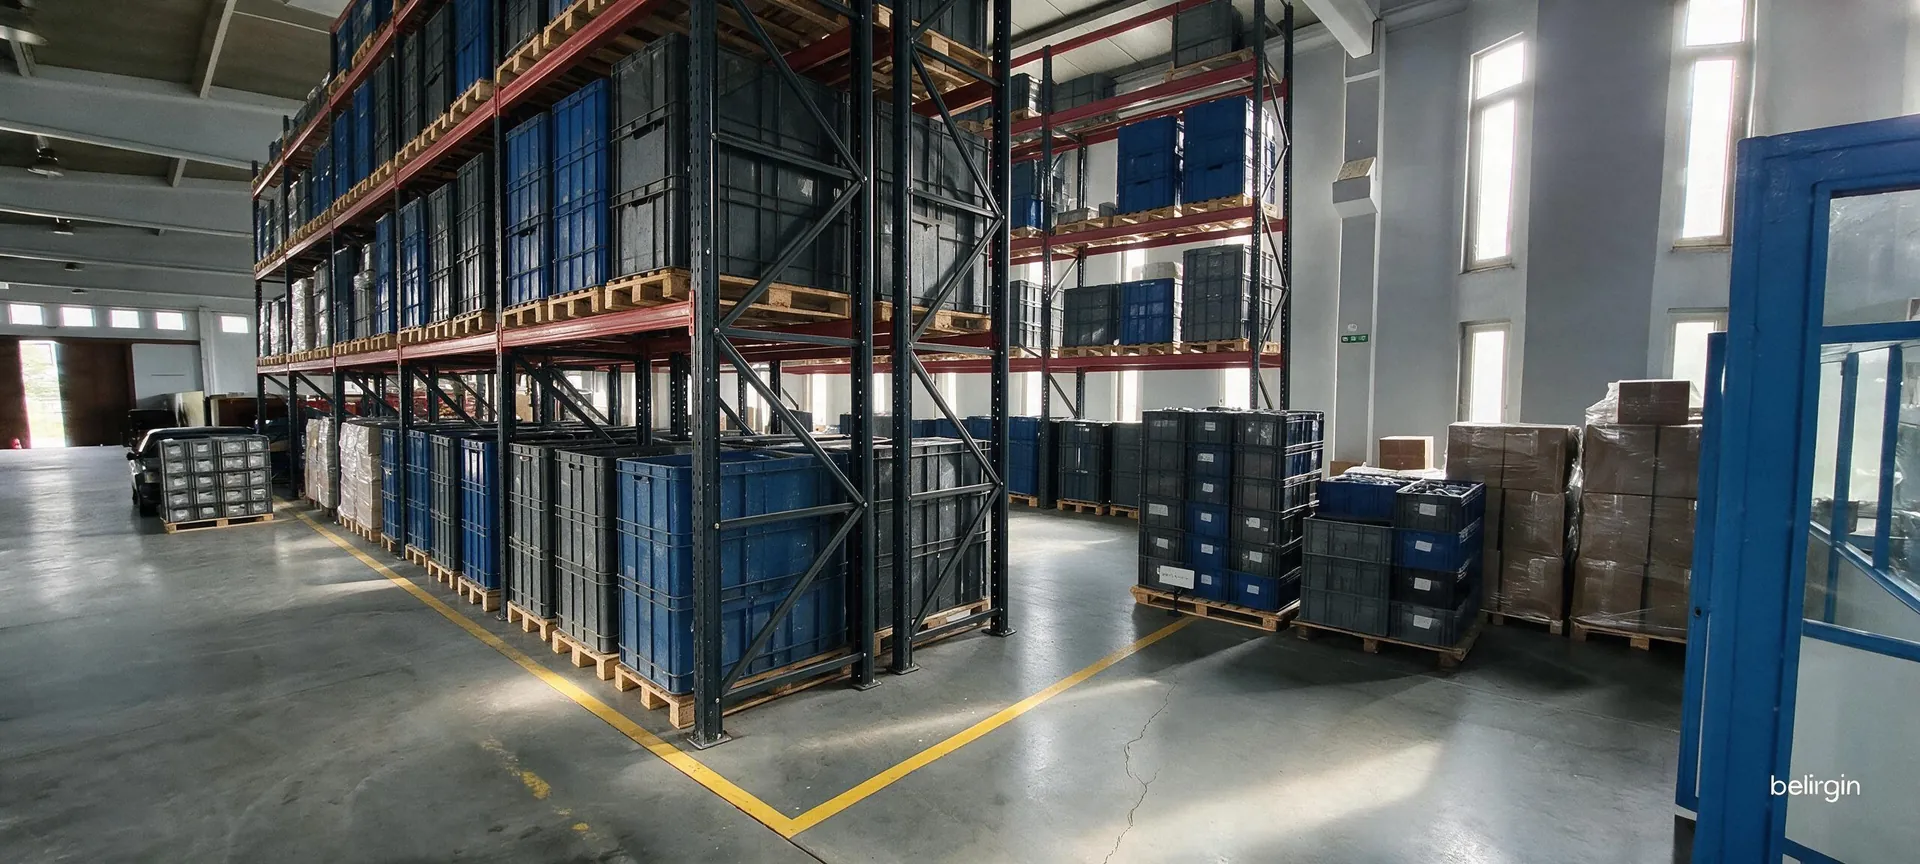
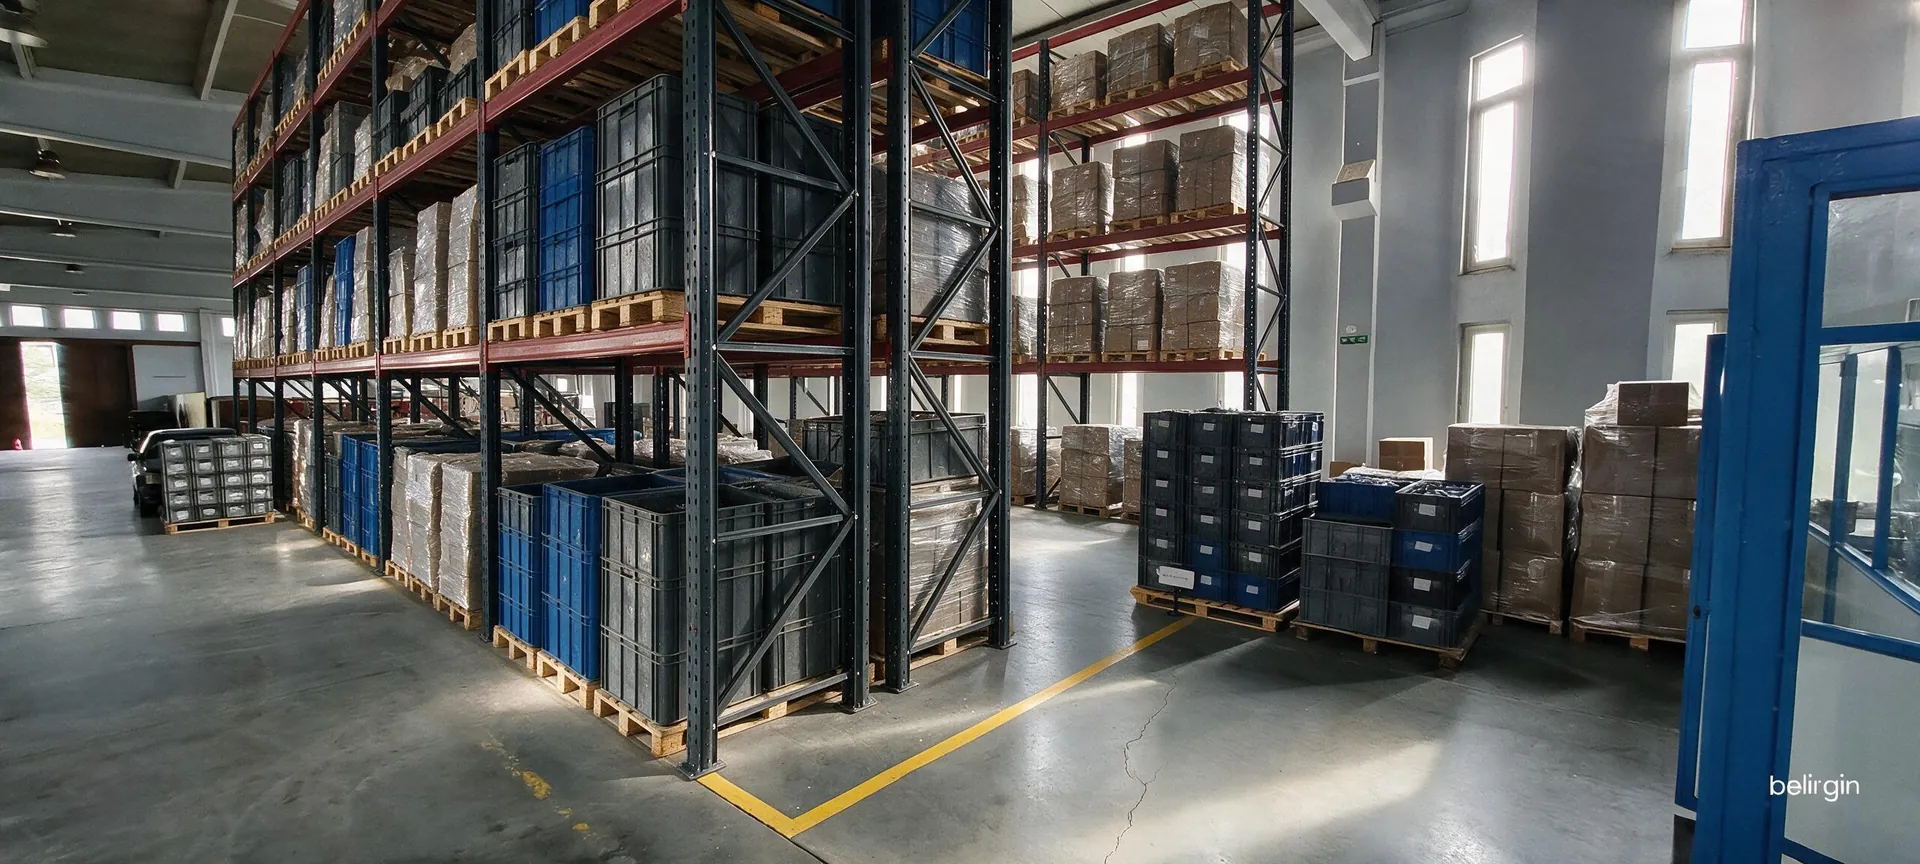
2. grup: raf saga yasli + 6 kasa (studyo), rafta koli, yaninda 24 kasa (6x4, 2 palet), esit bolmeler

diff --git a/index.html b/index.html
@@ -191,7 +191,7 @@ html.js .gor.acik{opacity:1;transform:none}
 document.documentElement.classList.add('js');
 var RAF=[
  {no:'06',ad:'1. grup',g:'grup1',detaysiz:1,alt:'Sırt sırta iki sıra, aralarında 250 mm. Ana koridorun önünde, sarı zemin çizgisi boyunca.',goz:[2700,2700,2700,2700,2700,1800],top:'16 000',y:'6 500',d:'2 × 1 050 + 250',k:'2 100 · 1 630 · 1 620 · 1 150'},
- {no:'07',ad:'2. grup',g:'grup2',alt:'Tek sıra, sağ duvar boyunca.',goz:[2700,2700,2700,2700,2700],top:'14 200',y:'6 500',d:'1 050',k:'2 100 · 1 630 · 1 620 · 1 150'},
+ {no:'07',ad:'2. grup',g:'grup2',alt:'Tek sıra, sağ duvar boyunca. Rafta palet üstünde koli; plastik kasalar (24 adet, 2 palet) rafın yanında, raftan bağımsız.',goz:[2700,2700,2700,2700,2700],top:'14 200',y:'6 500',d:'1 050',k:'2 100 · 1 630 · 1 620 · 1 150'},
  {no:'08',ad:'3. grup',g:'grup3',alt:'Tek sıra, ana koridorun arka bölümü.',goz:[3000,3000],top:'6 000',y:'4 500',d:'1 050',k:'2 180 · 2 320'},
  {no:'09',ad:'4. grup, uzun sıra',g:'grup4_uzun',detaysiz:1,alt:'Tek sıra, pencereli duvar boyunca.',goz:[2700,2700,2700,2700,2700],top:'14 000',y:'4 500',d:'1 050',k:'2 180 · 2 320'},
  {no:'10',ad:'4. grup, kısa sıra',g:'grup4_kisa',detaysiz:1,alt:'Tek sıra, makine hattının önünde.',goz:[2700,2700,2700,2700,2000],top:'13 500',y:'4 500',d:'1 050',k:'2 180 · 2 320'}
@@ -203,7 +203,7 @@ try{
  RAF.forEach(function(r){
   var gz=r.goz.map(function(w){return '<div style="flex:'+w+'">'+w+'</div>';}).join('');
   var h='<section class="gor"><div class="bas"><span class="no">'+r.no+'</span><div><h2>'+r.ad+'</h2><p class="alt">'+r.alt+'</p></div></div>'+
-   '<div class="raf"><figure class="foto">'+im(r.g+'_studyo',r.ad+' önden görünüm')+'<figcaption>Önden görünüm</figcaption></figure>'+
+   '<div class="raf"><figure class="foto">'+im(r.g+'_studyo',r.ad+' önden görünüm')+'<figcaption>'+(r.g=='grup2'?'Önden görünüm · solda raftan bağımsız 6 plastik kasa (2 palet, 120×80)':'Önden görünüm')+'</figcaption></figure>'+
    '<div class="olcu"><div class="gozler" aria-label="Göz genişlikleri">'+gz+'</div><div class="toplam">Toplam '+r.top+' mm</div>'+
    '<div class="degerler"><div class="deger"><span>Yükseklik</span><b>'+r.y+'</b></div><div class="deger"><span>Derinlik</span><b>'+r.d+'</b></div>'+
    '<div class="deger"><span>Göz</span><b>'+(r.goz.length*r.k.split('·').length*(r.g=='grup1'?2:1))+'</b><small style="display:block;font-size:12px;opacity:.7">'+r.goz.length+' bölme × '+r.k.split('·').length+' kat'+(r.g=='grup1'?' × 2 sıra':'')+'</small></div><div class="deger"><span>Kiriş aralıkları (alttan)</span><b style="font-size:15px">'+r.k+'</b></div></div></div>'+
